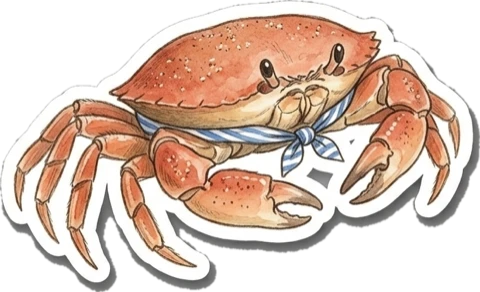
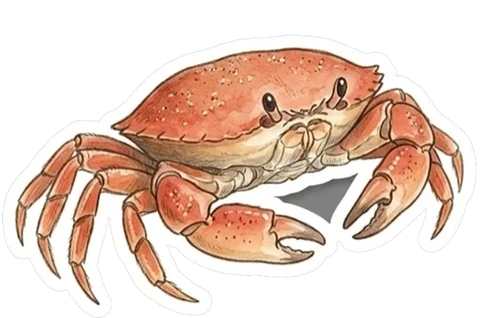
feat(world): repaint Barnacle and make his neckerchief his first outfit
Barnacle's striped sailor neckerchief was painted into his base art, like
the other friends' signature pieces. His sitting sticker is repainted
neckerchief-free and his outfits are repainted on the clean base. The
neckerchief becomes a neck item (sailor-kerchief) with its own look, idle
and hop, and a standalone wardrobe sticker
(wardrobe-suites/crab/sailor-kerchief.png), listed first in suits.json and
anchored in wardrobe-anchors.json.

His wardrobe drops the chest pack, whose look art is removed, and adds the
life ring, which was painted but never offered, so he still unlocks five
items after the free neckerchief.

The idle is drawn from the approved still: gentle claw pinches with his
face and eye stalks copied from the still into every frame, so they never
drift. With mittens on he holds still, since the mittens hide the pinch.
The hop is redrawn from the still too: crouch, push off, both claws up in
the air, a squash on landing, and the still as the last frame. Its cell
grows from 440x346 to 540x456 with the feet and standing height updated,
so he stays the same size on the path. The sitting stickers share a new
480x318 canvas and his wardrobe anchors are moved onto it.

The neckerchief is his starting item. Tests that needed a friend with no
starting item now use Bartholomew.

diff --git a/HopTalesPackage/Tests/AppFeatureTests/WardrobeTests.swift b/HopTalesPackage/Tests/AppFeatureTests/WardrobeTests.swift
@@ -11,45 +11,47 @@ struct WardrobeFeatureTests {
   nonisolated private static var progress: Content.Progress {
     var basket = Basket()
     basket.filled = 4
-    return Content.Progress(journey: Journey(starting: .crab), baskets: [.crab: basket])
+    return Content.Progress(
+      journey: Journey(starting: .grasshopper), baskets: [.grasshopper: basket]
+    )
   }
 
   @Test func everyItemIsInOneGridAndTappingSwapsTheLook() async {
     let saved = LockIsolated(Self.progress)
-    let store = TestStore(initialState: Wardrobe.State(friend: .crab)) {
+    let store = TestStore(initialState: Wardrobe.State(friend: .grasshopper)) {
       Wardrobe()
         .dependency(ProgressStore(load: { saved.value }, save: { saved.setValue($0) }))
     } changes: {
       $0.progress = Self.progress
     }
-    let items = WardrobeLibrary.items(for: .crab)
+    let items = WardrobeLibrary.items(for: .grasshopper)
     #expect(store.state.items == items)
 
     store.send(.itemTapped(items[0])) {
-      $0.progress.outfits[.crab] = [items[0].slot: items[0].id]
+      $0.progress.outfits[.grasshopper] = [items[0].slot: items[0].id]
     }
     store.send(.itemTapped(items[1])) {
-      $0.progress.outfits[.crab] = [items[1].slot: items[1].id]
+      $0.progress.outfits[.grasshopper] = [items[1].slot: items[1].id]
     }
-    #expect(saved.value.outfit(for: .crab) == [items[1]])
+    #expect(saved.value.outfit(for: .grasshopper) == [items[1]])
     await store.dismount()
   }
 
   @Test func tappingTheWornItemOrJustMeTakesTheLookOff() async {
     let saved = LockIsolated(Self.progress)
-    let store = TestStore(initialState: Wardrobe.State(friend: .crab)) {
+    let store = TestStore(initialState: Wardrobe.State(friend: .grasshopper)) {
       Wardrobe()
         .dependency(ProgressStore(load: { saved.value }, save: { saved.setValue($0) }))
     } changes: {
       $0.progress = Self.progress
     }
-    let item = WardrobeLibrary.items(for: .crab)[0]
+    let item = WardrobeLibrary.items(for: .grasshopper)[0]
 
-    store.send(.itemTapped(item)) { $0.progress.outfits[.crab] = [item.slot: item.id] }
-    store.send(.itemTapped(item)) { $0.progress.outfits[.crab] = [:] }
-    store.send(.itemTapped(item)) { $0.progress.outfits[.crab] = [item.slot: item.id] }
-    store.send(.justMeTapped) { $0.progress.outfits[.crab] = [:] }
-    #expect(saved.value.outfit(for: .crab).isEmpty)
+    store.send(.itemTapped(item)) { $0.progress.outfits[.grasshopper] = [item.slot: item.id] }
+    store.send(.itemTapped(item)) { $0.progress.outfits[.grasshopper] = [:] }
+    store.send(.itemTapped(item)) { $0.progress.outfits[.grasshopper] = [item.slot: item.id] }
+    store.send(.justMeTapped) { $0.progress.outfits[.grasshopper] = [:] }
+    #expect(saved.value.outfit(for: .grasshopper).isEmpty)
     await store.dismount()
   }
 
@@ -167,6 +169,27 @@ struct WardrobeFeatureTests {
     #expect(saved.value.outfit(for: .cat) == [hat])
     store.send(.justMeTapped) { $0.progress.outfits[.cat] = [:] }
     #expect(saved.value.outfit(for: .cat).isEmpty)
+    await store.dismount()
+  }
+
+  @Test func barnacleWearsHisNeckerchiefUntilSomethingElseIsChosen() async throws {
+    let fresh = Content.Progress(journey: Journey(starting: .crab))
+    let saved = LockIsolated(fresh)
+    let store = TestStore(initialState: Wardrobe.State(friend: .crab)) {
+      Wardrobe()
+        .dependency(ProgressStore(load: { saved.value }, save: { saved.setValue($0) }))
+    } changes: {
+      $0.progress = fresh
+    }
+    let items = WardrobeLibrary.items(for: .crab)
+    let kerchief = try #require(items.first { $0.id == "sailor-kerchief" })
+    let cap = try #require(items.first { $0.id == "sailor-cap" })
+    #expect(store.state.outfit == [kerchief])
+
+    store.send(.itemTapped(cap)) { $0.progress.outfits[.crab] = [.head: cap.id] }
+    #expect(saved.value.outfit(for: .crab) == [cap])
+    store.send(.justMeTapped) { $0.progress.outfits[.crab] = [:] }
+    #expect(saved.value.outfit(for: .crab).isEmpty)
     await store.dismount()
   }
 }

diff --git a/HopTalesPackage/Tests/ContentTests/WardrobeTests.swift b/HopTalesPackage/Tests/ContentTests/WardrobeTests.swift
@@ -10,17 +10,18 @@ struct WardrobeTests {
     }
   }
 
-  @Test func everyFriendUnlocksFiveOfTheirWardrobeAndTheFirstFiveStartWithAnother() {
+  @Test func everyFriendUnlocksFiveOfTheirWardrobeAndTheFirstSixStartWithAnother() {
     #expect(WardrobeLibrary.all[.hare]?.count == 13)
     #expect(WardrobeLibrary.all[.bunny]?.count == 9)
     #expect(WardrobeLibrary.all[.frog]?.count == 9)
     #expect(WardrobeLibrary.all[.crow]?.count == 9)
     #expect(WardrobeLibrary.all[.cat]?.count == 9)
+    #expect(WardrobeLibrary.all[.crab]?.count == 9)
     for friend in Friend.allCases {
       let starts = WardrobeLibrary.starting[friend] != nil
       #expect(WardrobeLibrary.items(for: friend).count == (starts ? 6 : 5), "\(friend)")
       #expect(WardrobeLibrary.unlockable(for: friend).count == 5, "\(friend)")
-      if ![Friend.hare, .bunny, .frog, .crow, .cat].contains(friend) {
+      if ![Friend.hare, .bunny, .frog, .crow, .cat, .crab].contains(friend) {
         #expect(WardrobeLibrary.all[friend]?.count == 8, "\(friend)")
       }
     }
@@ -37,23 +38,24 @@ struct WardrobeTests {
   }
 
   @Test func onlyUnlockedItemsCanBeWornAndOneItemPerSlot() throws {
-    var progress = Progress(journey: Journey(starting: .crab))
-    let items = WardrobeLibrary.items(for: .crab)
-    progress.wear(items[1], on: .crab)
-    #expect(progress.outfit(for: .crab).isEmpty)
-    progress.wear(items[0], on: .crab)
-    #expect(progress.outfit(for: .crab) == [items[0]])
-    progress.baskets[.crab, default: Basket()].filled = 1
-    progress.wear(items[1], on: .crab)
-    #expect(progress.outfit(for: .crab) == [items[1]])
-    progress.takeOff(items[1].slot, from: .crab)
-    #expect(progress.outfit(for: .crab).isEmpty)
+    var progress = Progress(journey: Journey(starting: .grasshopper))
+    let items = WardrobeLibrary.items(for: .grasshopper)
+    progress.wear(items[1], on: .grasshopper)
+    #expect(progress.outfit(for: .grasshopper).isEmpty)
+    progress.wear(items[0], on: .grasshopper)
+    #expect(progress.outfit(for: .grasshopper) == [items[0]])
+    progress.baskets[.grasshopper, default: Basket()].filled = 1
+    progress.wear(items[1], on: .grasshopper)
+    #expect(progress.outfit(for: .grasshopper) == [items[1]])
+    progress.takeOff(items[1].slot, from: .grasshopper)
+    #expect(progress.outfit(for: .grasshopper).isEmpty)
   }
 
   @Test(arguments: [
     (Friend.bunny, "bow", Slot.head), (.hare, "scarf", .neck), (.frog, "neckerchief", .neck),
     (.crow, "knit-cap", .head),
-    (.cat, "sage-collar", .neck)
+    (.cat, "sage-collar", .neck),
+    (.crab, "sailor-kerchief", .neck)
   ])
   func startingItemsAreWornUntilSomethingElseIsChosen(
     friend: Friend, id: String, slot: Slot
@@ -66,8 +68,8 @@ struct WardrobeTests {
     let fresh = Progress()
     #expect(fresh.isUnlocked(item, for: friend))
     #expect(fresh.outfit(for: friend) == [item])
-    #expect(WardrobeLibrary.startingItem(for: .crab) == nil)
-    #expect(Progress(journey: Journey(starting: .crab)).outfit(for: .crab).isEmpty)
+    #expect(WardrobeLibrary.startingItem(for: .grasshopper) == nil)
+    #expect(Progress(journey: Journey(starting: .grasshopper)).outfit(for: .grasshopper).isEmpty)
   }
 
   @Test func startingItemsLeaveTheUnlockOrderAlone() throws {

diff --git a/HopTalesPackage/Sources/Content/Wardrobe.swift b/HopTalesPackage/Sources/Content/Wardrobe.swift
@@ -62,7 +62,9 @@ public enum WardrobeLibrary {
     .frog: ["neckerchief", "lilypad-hat", "goggles", "check-bowtie", "reed-satchel", "raincoat"],
     .crow: ["knit-cap", "flat-cap", "top-hat", "aviator-goggles", "autumn-scarf", "post-satchel"],
     .cat: ["sage-collar", "garden-hat", "beret", "cateye-glasses", "red-bell-collar", "cardigan"],
-    .crab: ["sailor-cap", "captain-hat", "diving-mask", "claw-mittens", "chest-pack"],
+    .crab: [
+      "sailor-kerchief", "sailor-cap", "captain-hat", "diving-mask", "life-ring", "claw-mittens"
+    ],
     .grasshopper: [
       "acorn-cap", "antenna-poms", "explorer-goggles", "clover-bowtie", "ladybird-cape"
     ]
@@ -70,7 +72,7 @@ public enum WardrobeLibrary {
 
   public static let starting: [Friend: String] = [
     .bunny: "bow", .hare: "scarf", .frog: "neckerchief", .crow: "knit-cap",
-    .cat: "sage-collar"
+    .cat: "sage-collar", .crab: "sailor-kerchief"
   ]
 
   @TaskLocal public static var painted: [Friend: Set<String>] = {

diff --git a/HopTalesPackage/Sources/World/HareArt.swift b/HopTalesPackage/Sources/World/HareArt.swift
@@ -87,8 +87,8 @@ public struct SpriteSheet: Equatable, Sendable {
         size: 0.75
       ),
       .hop(
-        "crab-hop", cell: CGSize(width: 440, height: 346), feet: CGPoint(x: 211, y: 333),
-        standing: 286, size: 0.75
+        "crab-hop", cell: CGSize(width: 540, height: 456), feet: CGPoint(x: 270, y: 440),
+        standing: 262, size: 0.75
       )
     ),
     .crow: (
